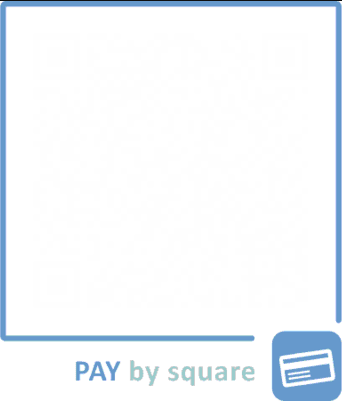
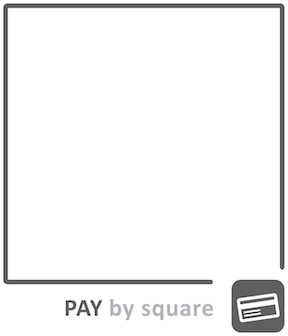
Initial + CI

Changed region(s): [[0.0, 0.0, 1.0, 1.0], [0.2188, 0.8929, 0.75, 0.9821]]

diff --git a/payBySquareGenerator.js b/payBySquareGenerator.js
@@ -149,7 +149,7 @@ async function addPayBySquareFrame(qrBuffer, framePath = './frame.png') {
         // Assuming the frame has some padding/border, adjust these values if needed
         const qrSize = Math.min(frameImage.width, frameImage.height) * 0.85; // 85% of frame size
         const qrX = (frameImage.width - qrSize) / 2;
-        const qrY = (frameImage.height - qrSize) / 2 - 30; // Shifted 30px higher
+        const qrY = (frameImage.height - qrSize) / 2 - 25; // Shifted 30px higher
 
         // Draw QR code in center
         ctx.drawImage(qrImage, qrX, qrY, qrSize, qrSize);
